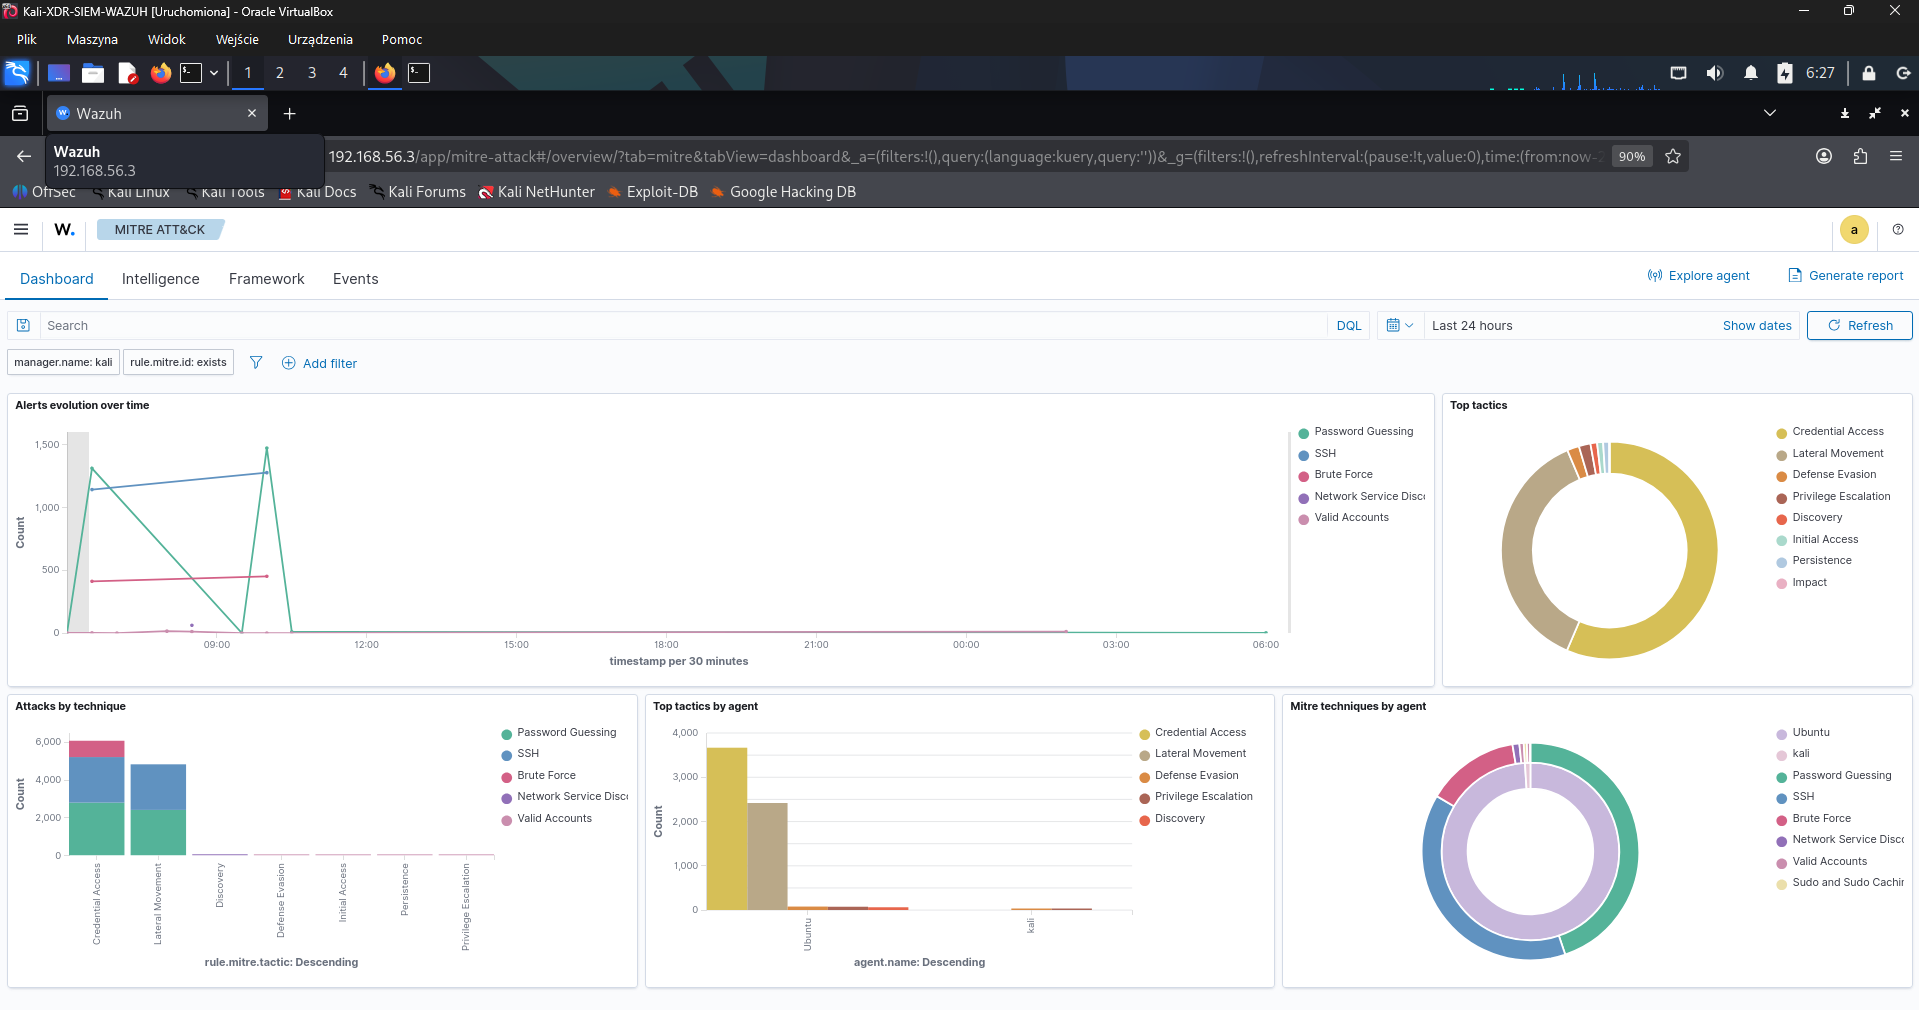
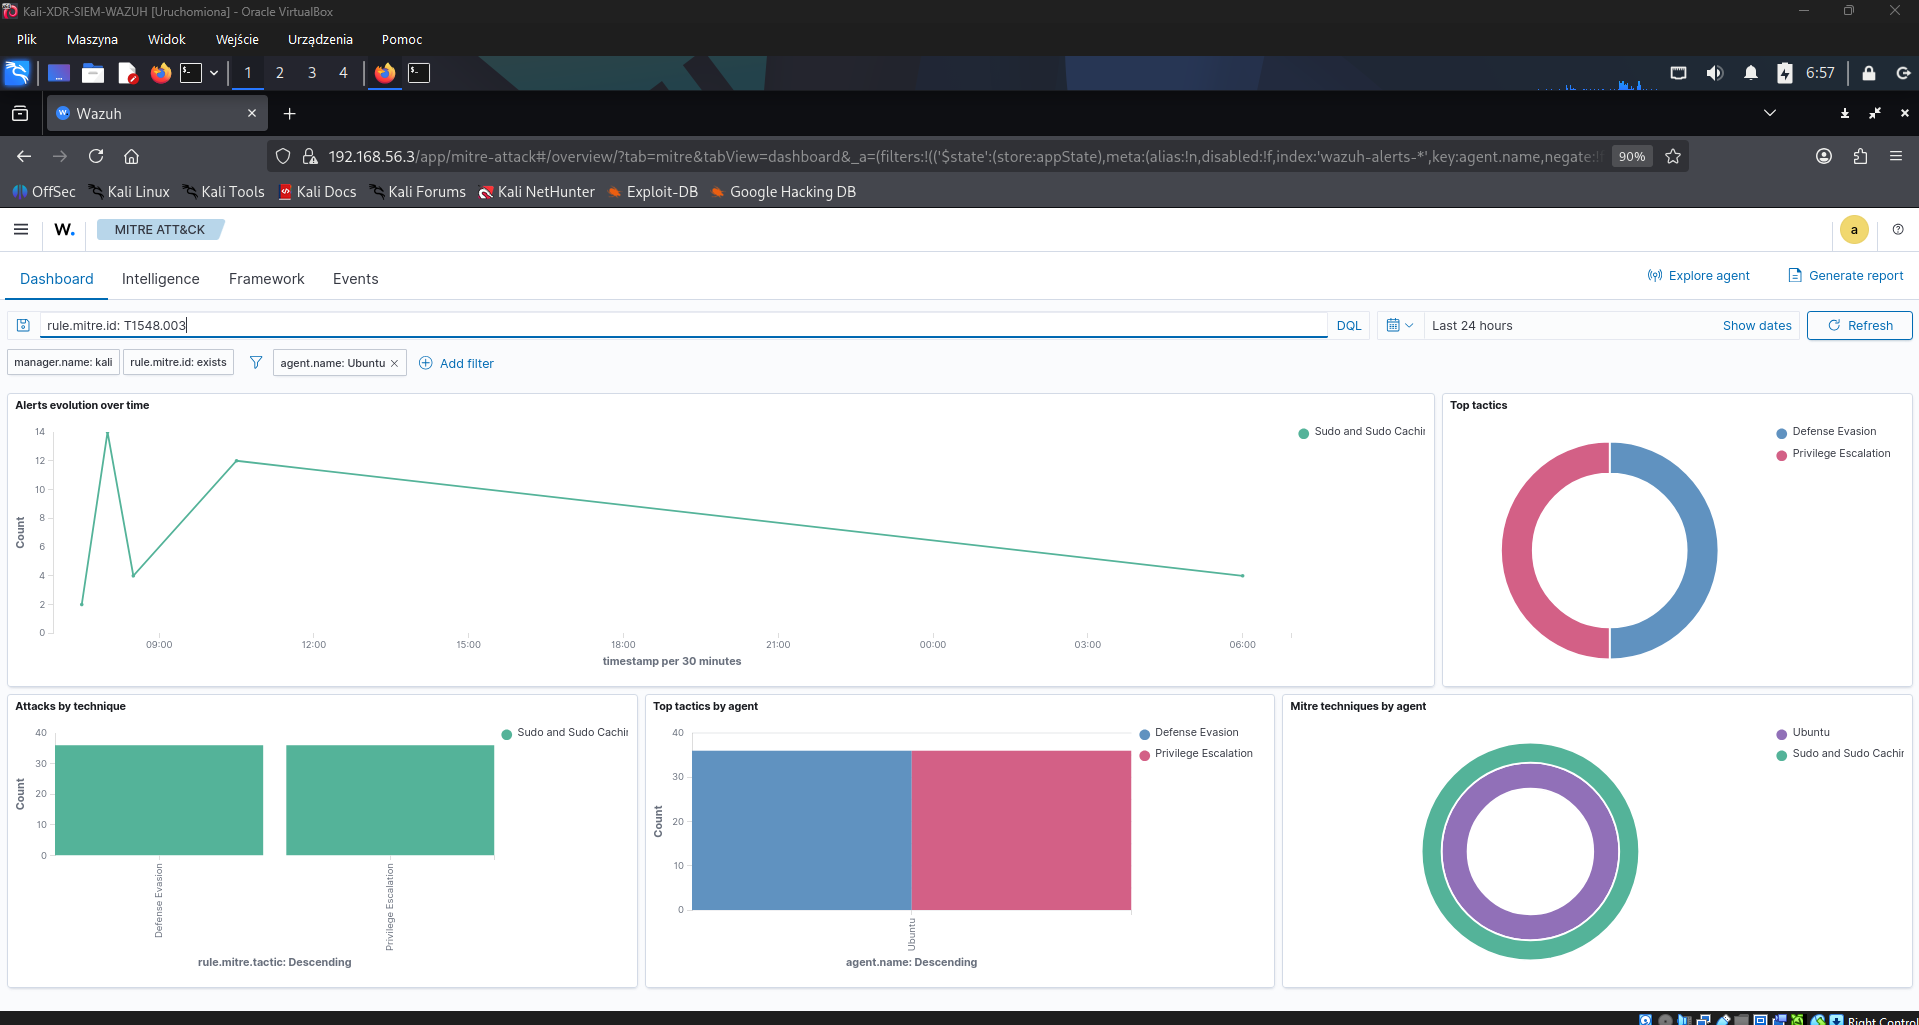
EDIT -> 05 docs & screenshot

diff --git a/docs/06-alerts-and-mitre.md b/docs/06-alerts-and-mitre.md
@@ -1,0 +1,48 @@
+# Alerts and MITRE ATT&CK Mapping
+
+## Scope
+
+This document summarizes how selected Wazuh alerts from the lab were mapped to MITRE ATT&CK techniques.
+
+Detailed attack commands and evidence screenshots are documented in:
+
+[`05-attack-scenarios.md`](05-attack-scenarios.md)
+
+## Mapping summary
+
+| Scenario | Wazuh rule | MITRE tactic | MITRE technique |
+|---|---:|---|---|
+| Nmap SYN scan detected from UFW logs | 100200 | Discovery | T1046 - Network Service Discovery |
+| SSH brute-force attempt | 100100 | Credential Access | T1110 - Brute Force |
+| Sudo command execution | 100101 | Privilege Escalation | T1548.003 - Sudo and Sudo Caching |
+| Failed sudo attempt | 100102 | Privilege Escalation | T1548.003 - Sudo and Sudo Caching |
+
+## Alert sources
+
+| Alert type | Source log | Collected by |
+|---|---|---|
+| Nmap / network scan | UFW firewall logs | Wazuh Agent |
+| SSH brute-force | `/var/log/auth.log` | Wazuh Agent |
+| Sudo activity | `/var/log/auth.log` | Wazuh Agent |
+
+## MITRE ATT&CK dashboard
+
+The Wazuh MITRE ATT&CK dashboard was used to confirm that alerts were grouped under the correct tactics and techniques.
+
+Main observed techniques:
+
+- `T1046 - Network Service Discovery`
+- `T1110 - Brute Force`
+- `T1548.003 - Sudo and Sudo Caching`
+
+![MITRE ATT&CK dashboard](../screenshots/alerts/mitre-attack-dashboard.png)
+
+## Notes
+
+The Nmap scan required endpoint firewall logging because Wazuh analyzes collected logs, not raw packets.
+
+SSH and sudo detections were based on standard Linux authentication logs.
+
+Local rules used in this lab are stored in:
+
+[`wazuh/rules/local_rules.xml`](../wazuh/rules/local_rules.xml)
